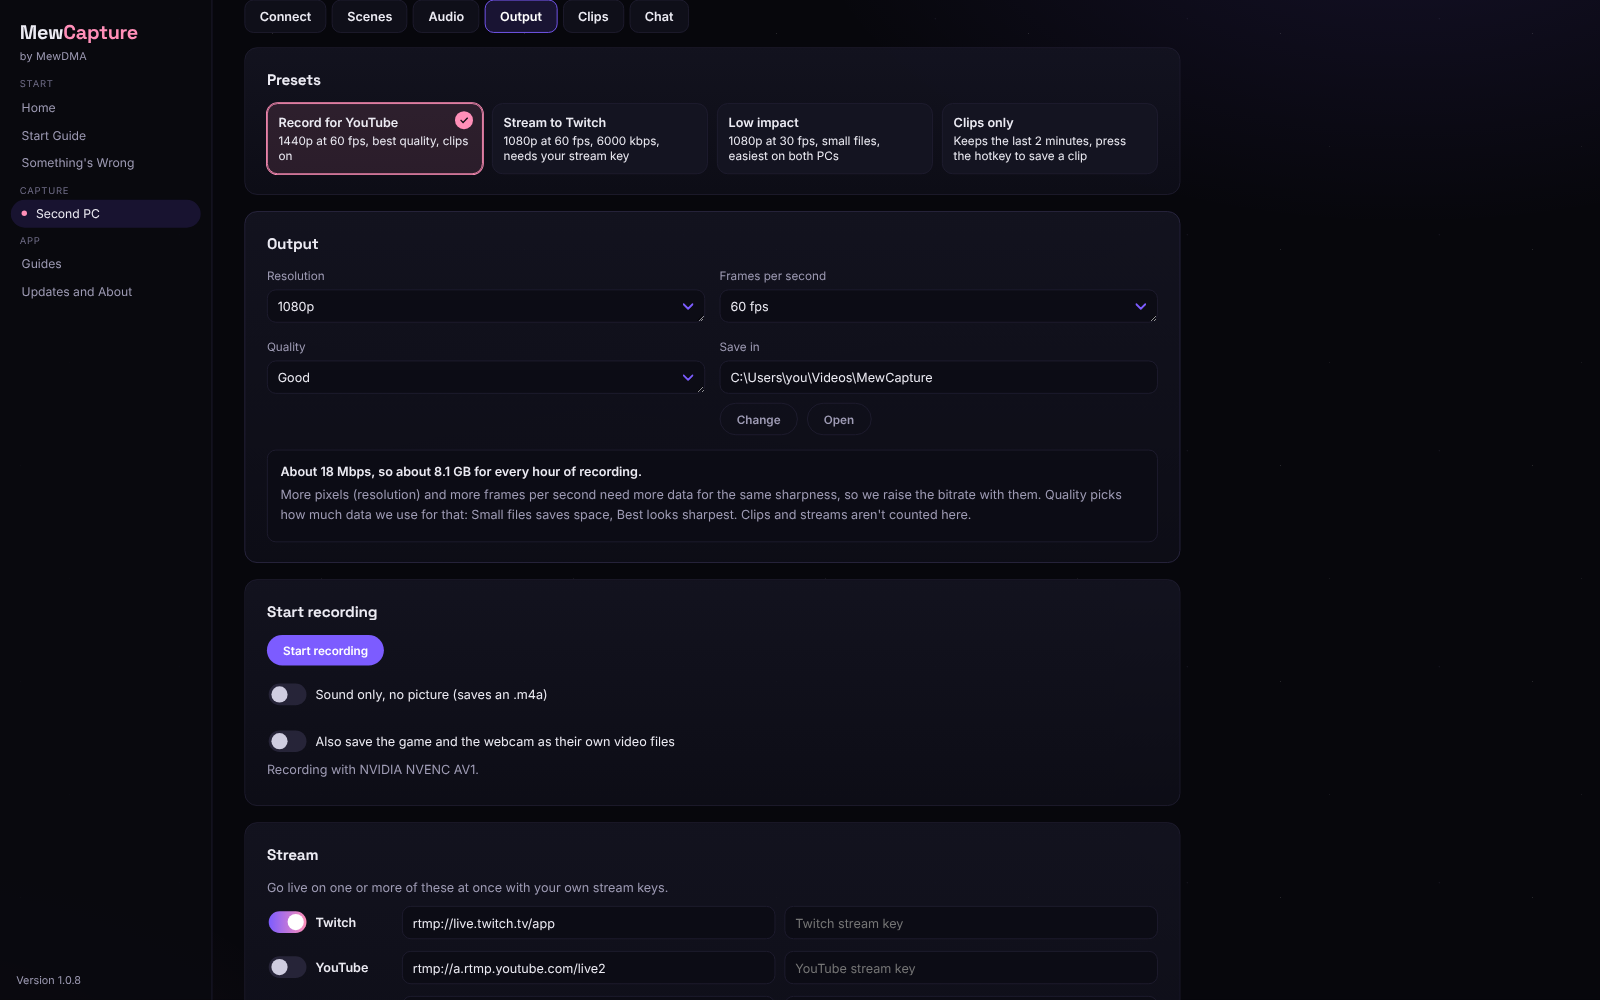
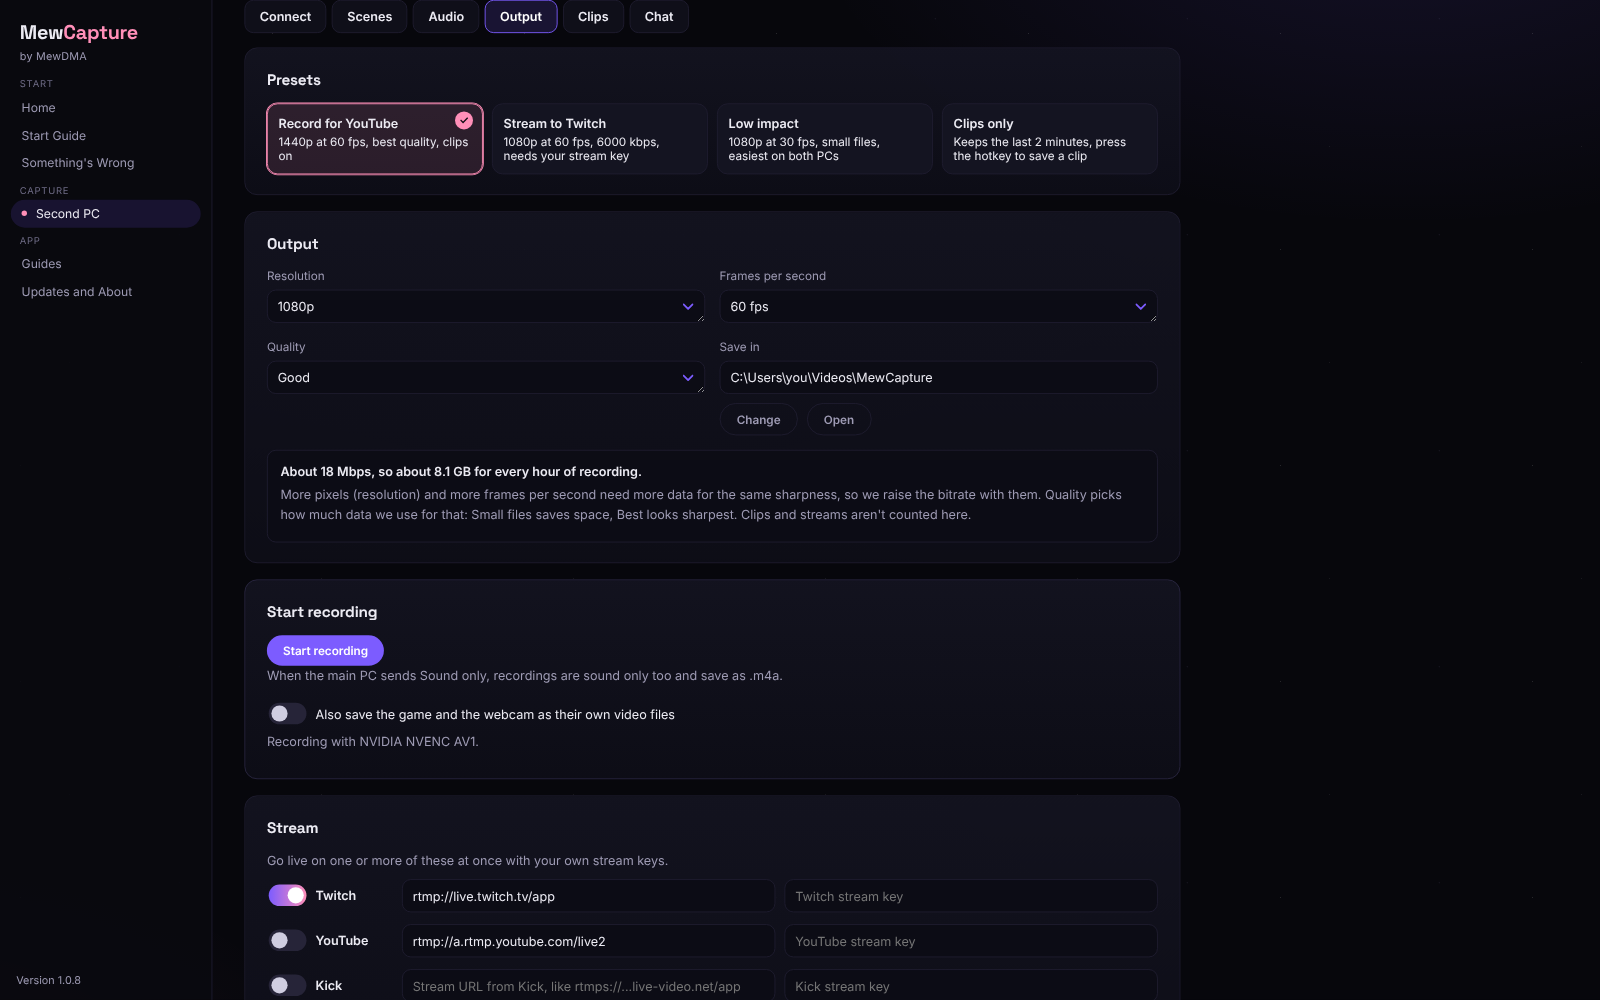
Update docs

diff --git a/docs/guide.md b/docs/guide.md
@@ -56,7 +56,7 @@ Add your webcam (you can blur or remove its background), images, text, a countdo
 
 ### Step 9: Set the sound (second PC)
 
-In Audio you set each volume with the meters, mute what you don't want and rename anything. Own track and file keeps a source apart in the recording and also saves it as its own audio file, ready for editing. Add a source adds the sound of any app on this PC, Listen to the recording lets you hear what the recording gets, and the mic comes from the main PC with Send my mic too.
+In Audio you set each volume with the meters, mute what you don't want and rename anything. Own track and file keeps a source apart in the recording and also saves it as its own audio file, ready for editing. Add a source adds the sound of any app on this PC, Hear it on this PC plays the sound here (Sound only too), and the mic comes from the main PC with Send my mic too.
 
 ![Set the sound](screenshots/mixer.png)
 
@@ -102,7 +102,7 @@ The easiest way is to press Set up OBS for me in Output, then pick Scene Collect
 
 To do it yourself, turn on Using OBS? Open the projector window in Output, then add a Window Capture in OBS and pick [MewCapture.exe]: MewCapture Projector. The projector always opens fullscreen. Hover near the top to minimize it so it's not blocking your screen, OBS keeps getting it. You only need the projector for OBS, MewCapture's own recording, streaming and Clip That work without it.
 
-For the sound, turn on Send the sound to OBS in Output, then add a Media Source in OBS, untick Local File and put udp://127.0.0.1:47811 as the input. Set up OBS for me adds it for you. Turn off Also play the sound on this PC's speakers if you only want it in OBS.
+For the sound, turn on Using OBS in Output, then add a Media Source in OBS, untick Local File and put udp://127.0.0.1:47811 as the input. Set up OBS for me adds it for you. Turn off Hear it on this PC in Audio if you only want it in OBS.
 
 Add your browser sources in OBS like you normally would. The main PC mic comes with the sound when Send my mic too is on there.
 
@@ -125,7 +125,7 @@ Use Ethernet for the main PC if you can. Wi-Fi works but drops show up as stutte
 ## Questions
 
 **Can I send just the sound?**<br>
-Yes. Pick Sound only under What to Send on the main PC and tick the apps you want. The second PC shows Getting the sound and puts it in the mixer like always. Record it on its own with Sound only, no picture in Output (that saves an .m4a), or stream your scenes with that sound under them.
+Yes. Pick Sound only under What to Send on the main PC and tick the apps you want. The second PC shows Getting the sound and puts it in the mixer like always. Press Start recording and it saves an .m4a with just the sound, or stream your scenes with that sound under them.
 
 **What can the hotkeys do?**<br>
 Clip That (with the overlay or clean), switching scenes and showing or hiding the projector. Click a hotkey box and press the keys you want, they work on both PCs so you can clip while you play.

diff --git a/CHANGELOG.md b/CHANGELOG.md
@@ -6,7 +6,13 @@ All changes to MewCapture, newest first.
 
 - MewCapture looks like mewdma.net now: a dark space background, violet and pink accents, Space Grotesk headings and Inter for everything else, without the glows. Everything works the same as before, every MC error code too.
 - Sound only: the main PC can send just the sound you pick, no picture. Pick Sound only under What to Send.
-- The second PC shows Getting the sound and puts it in the mixer like always. Record it on its own with Sound only, no picture in Output, which saves an .m4a, or stream your scenes with that sound under them.
+- The second PC shows Getting the sound and puts it in the mixer like always. Start recording saves an .m4a with just the sound by itself, or stream your scenes with that sound under them.
+- Simpler, one switch for each thing:
+  - Hear it on this PC (in Audio) is the only switch for hearing the sound on the second PC, Sound only too. It replaces Listen to the recording and the speakers switches.
+  - Using OBS is one switch in Output. It opens the projector and sends the sound to OBS, no separate sound switch.
+  - Own track is picked only in the second PC's mixer, not on the main PC too.
+  - Your overlay is set up only in Your Overlay at the top. Scenes points there instead of having its own copy, and the background color moved to its More options.
+  - The Get Started list on Home is gone, the Start guide does that job.
 
 ## v1.0.7
 

diff --git a/docs/screenshots/README.md b/docs/screenshots/README.md
@@ -37,7 +37,7 @@ The app ran with placeholder data: the PCs are called MAIN-PC and SECOND-PC, the
 | screen-main-pc-sound-only.png | Main PC with Sound only picked, and the apps whose sound goes along. |
 | screen-second-pc.png | Second PC: getting the game, Your Overlay and the Connect tab. |
 | screen-second-scenes.png | Scenes: the live preview with your sources on it. |
-| screen-second-audio.png | Audio: the mixer and Listen to the recording. |
+| screen-second-audio.png | Audio: the mixer and Hear it on this PC. |
 | screen-second-output.png | Output: presets, size and quality, Start recording with Sound only, and Stream. |
 | screen-second-clips.png | Clips: Clip That with the overlay and clean, and your clips. |
 | screen-second-chat.png | Chat: Twitch, YouTube and Kick, pop out or dock. |
